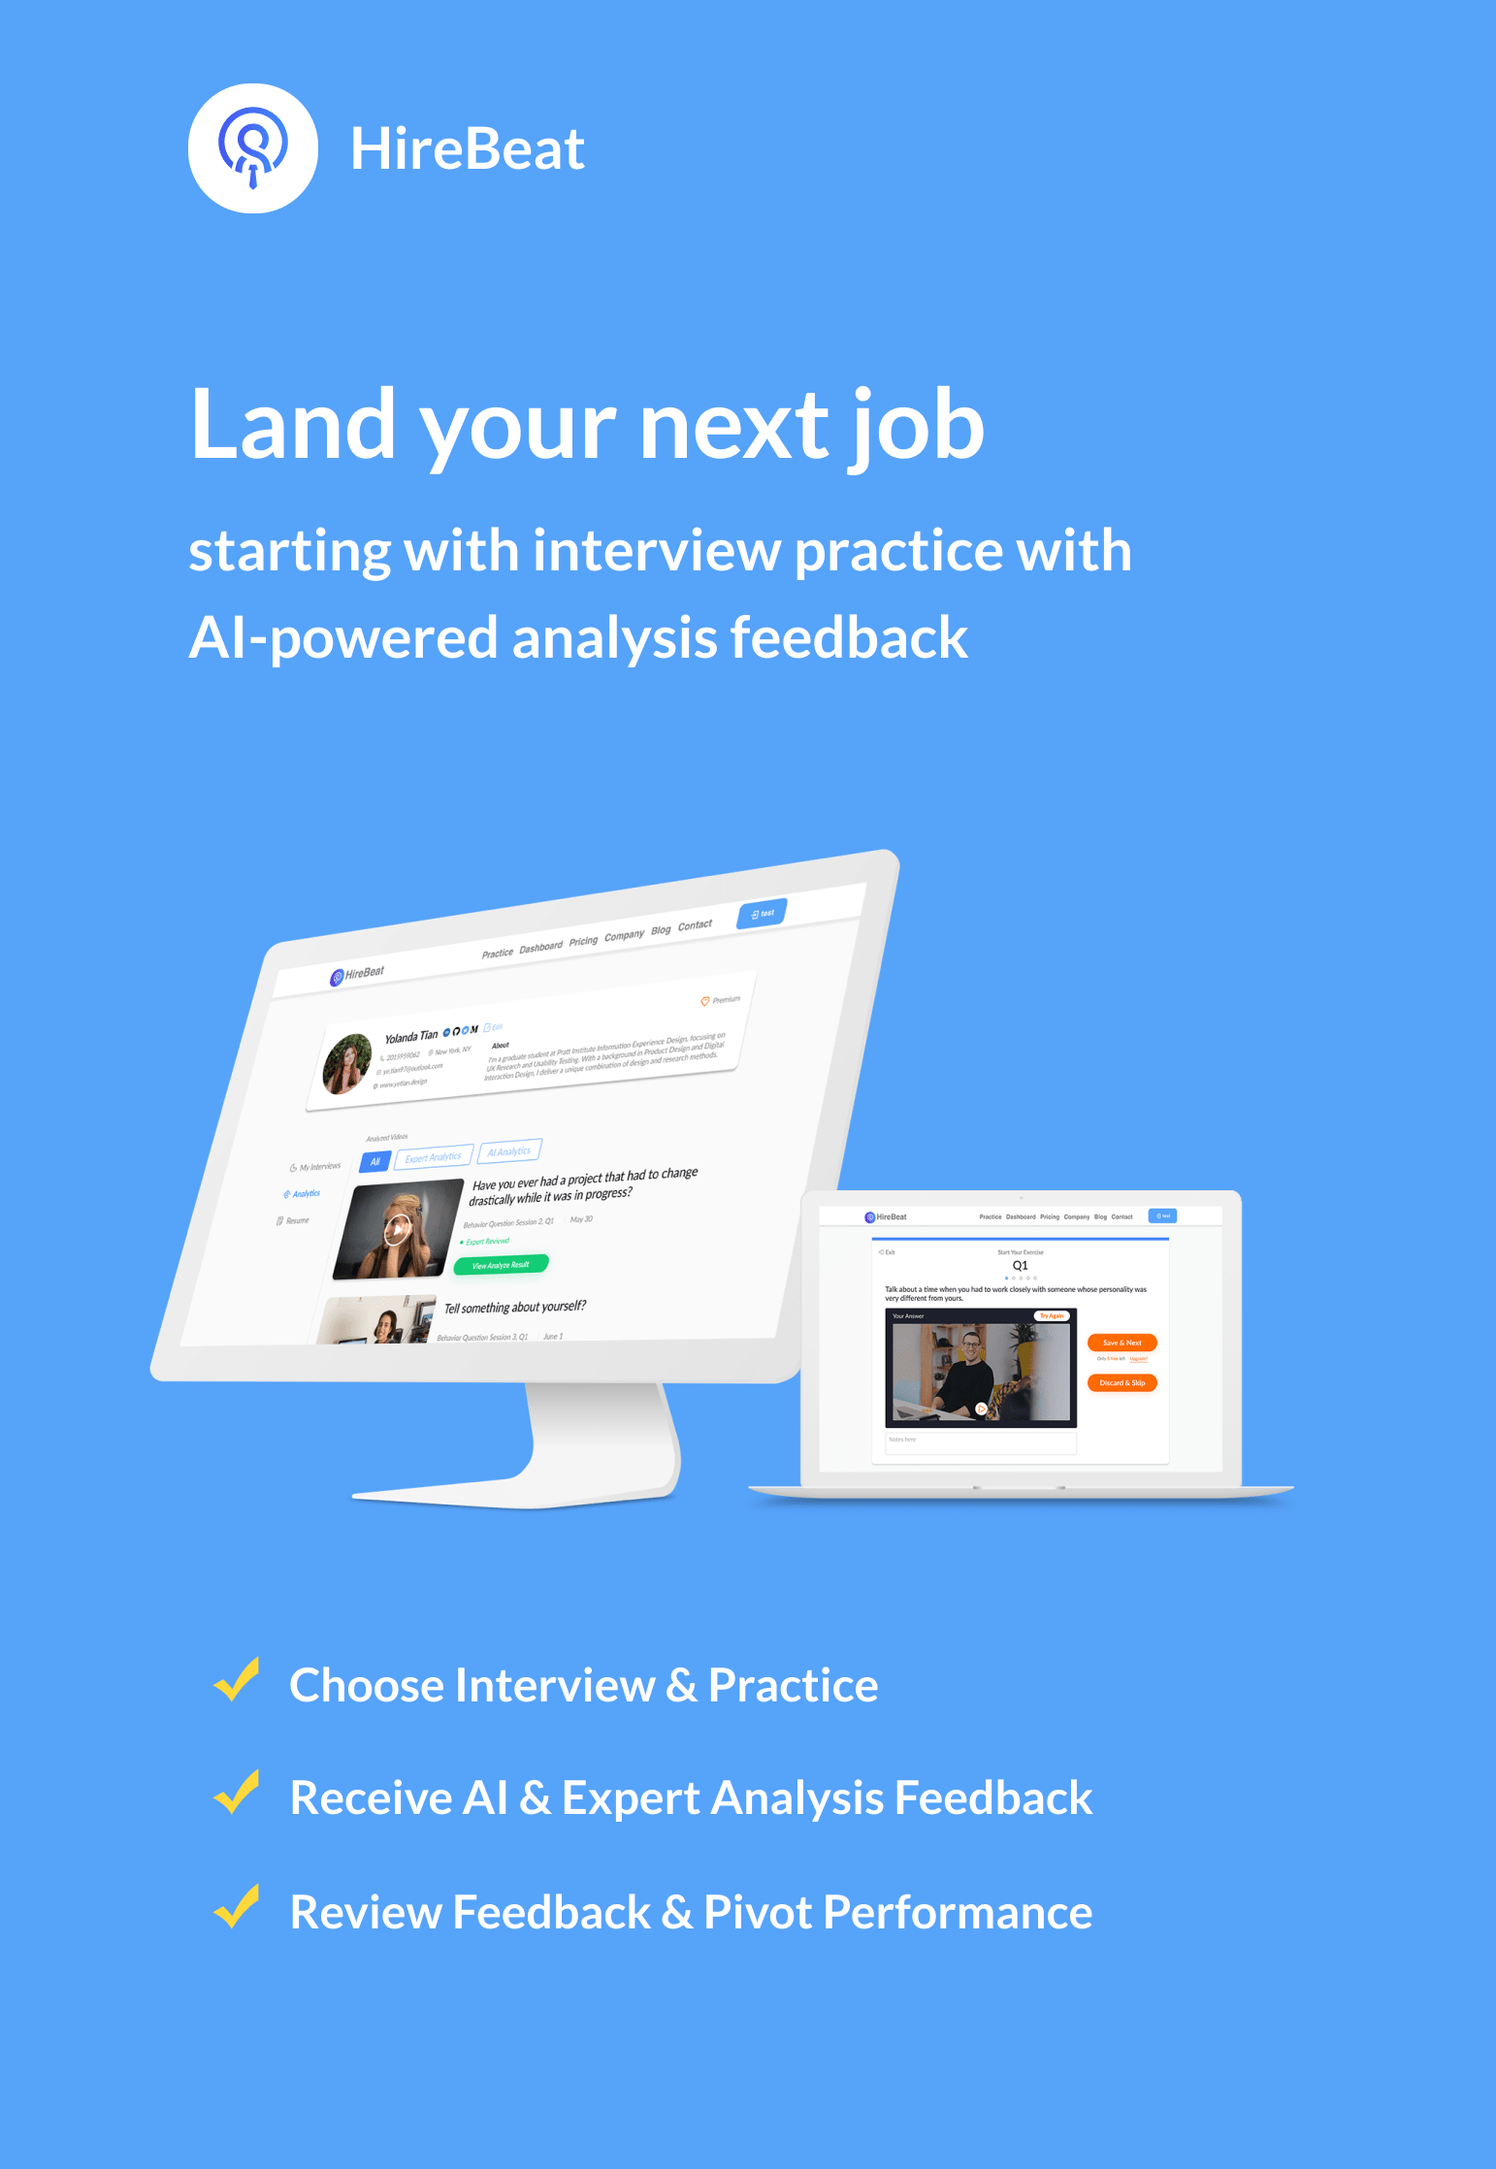
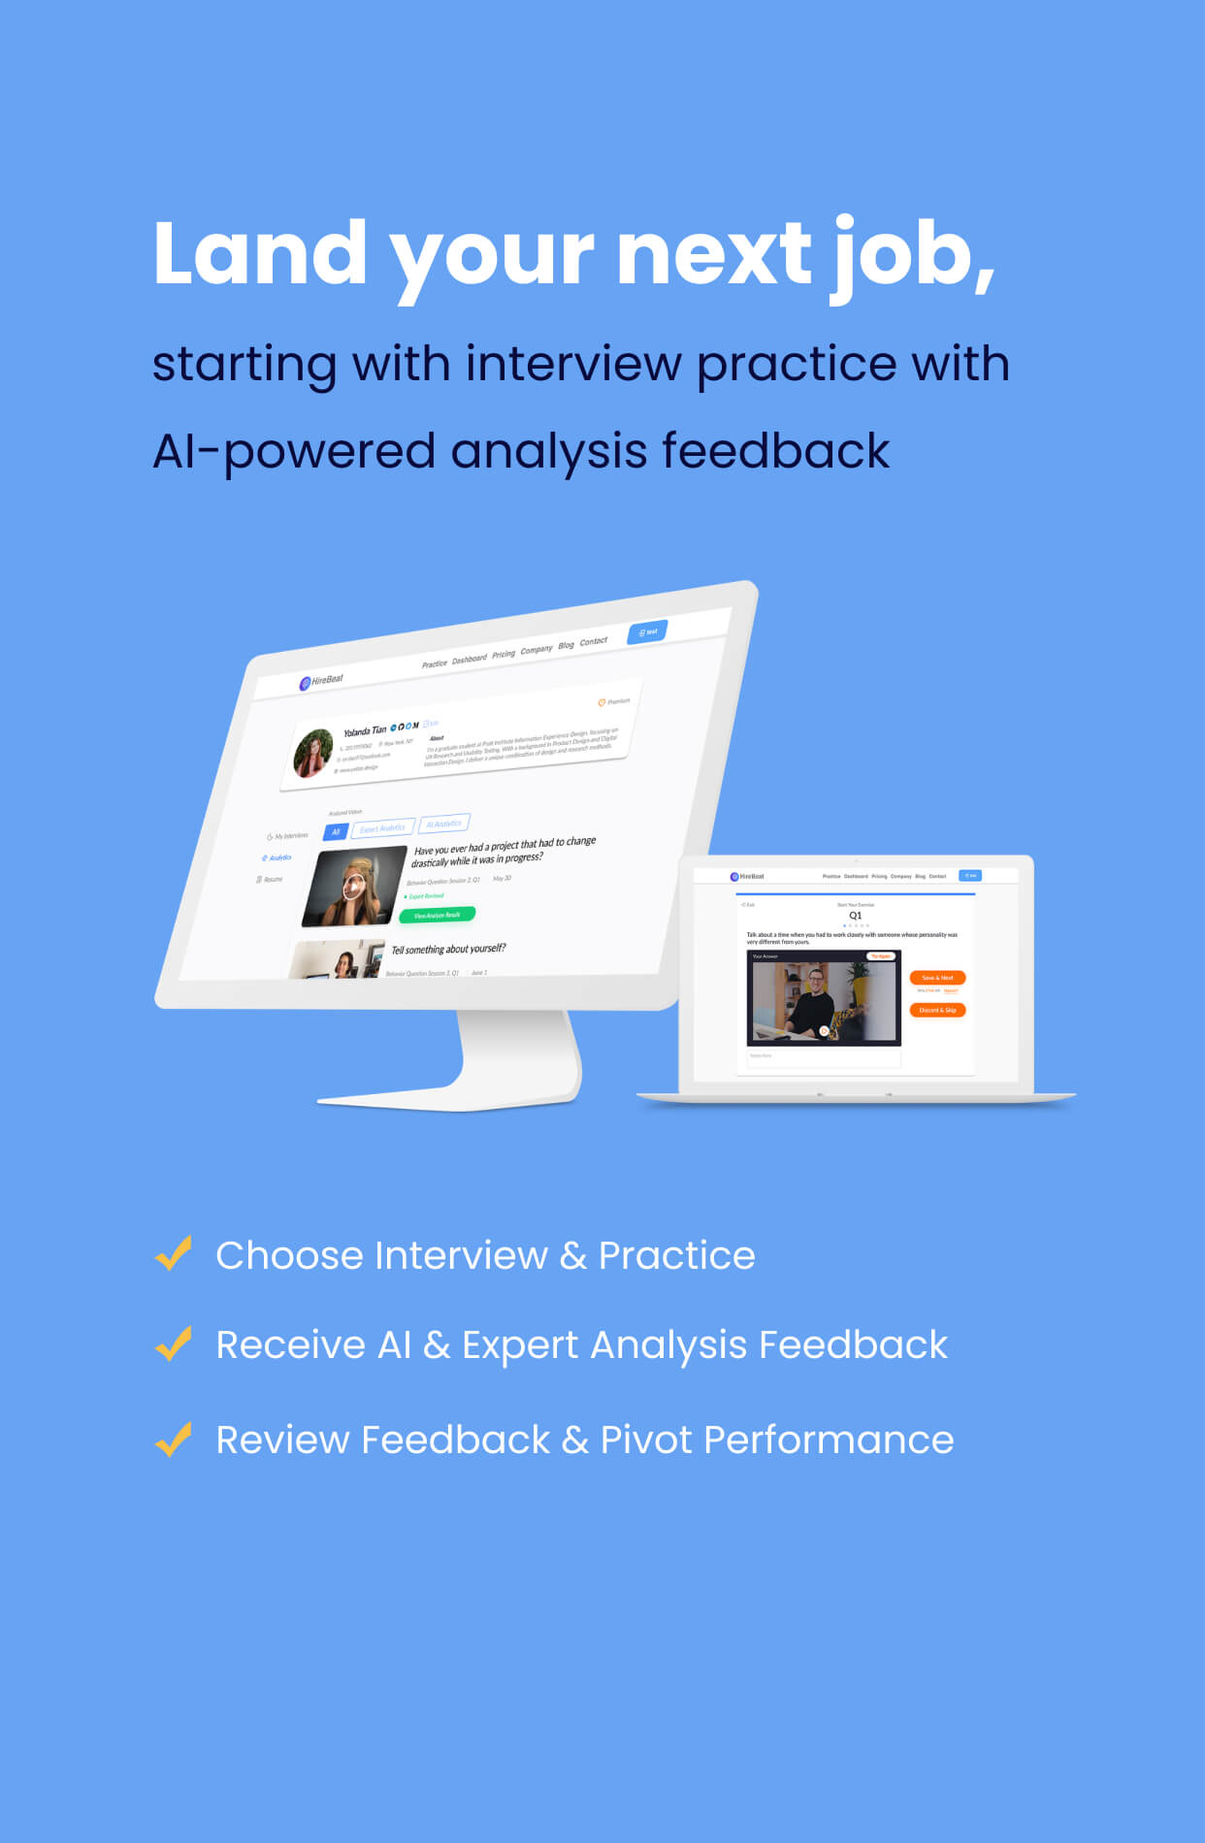
Production 26

Changed region(s): [[0.0918, 0.0311, 0.8873, 0.8384], [0.153, 0.8695, 0.7343, 0.9005], [0.1224, 0.7763, 0.153, 0.8074]]

diff --git a/hirebeat/frontend/src/components/accounts/Register.js b/hirebeat/frontend/src/components/accounts/Register.js
@@ -95,7 +95,7 @@ export class Register extends Component {
                         <div className="signup-content" style={{marginTop:"3rem"}}>
                                     <div className="signup-form">
                                       <div>
-                                        <h3 style={{color:"#56a3fa"}}><b>Start your career with HireBeat</b></h3>
+                                        <h3 style={{color:"#56a3fa", fontFamily: "Poppins"}}><b>Start your career with HireBeat</b></h3>
                                       </div>
 
                     <form onSubmit={this.onSubmit}>
@@ -108,10 +108,11 @@ export class Register extends Component {
                             onChange={this.onChange}
                             value={username}
                             style={{
+                              fontFamily: "Poppins",
                               background: "#FFFFFF",
-                              border: "1px solid #E5E5E5",
                               borderRadius: "5px",
                               paddingLeft: "1rem",
+                              boxShadow:"0px 0px 50px rgba(70, 137, 250, 0.1)"
                             }}
                             required
                         />
@@ -126,10 +127,11 @@ export class Register extends Component {
                             required
                             onChange={this.onChange}
                             style={{
+                              fontFamily: "Poppins",
                               background: "#FFFFFF",
-                              border: "1px solid #E5E5E5",
                               borderRadius: "5px",
                               paddingLeft: "1rem",
+                              boxShadow:"0px 0px 50px rgba(70, 137, 250, 0.1)"
                             }}
                             value={email}/>
                       </div>
@@ -144,10 +146,11 @@ export class Register extends Component {
                             placeholder="Create Password"
                             minLength="8"
                             style={{
+                              fontFamily: "Poppins",
                               background: "#FFFFFF",
-                              border: "1px solid #E5E5E5",
                               borderRadius: "5px",
                               paddingLeft: "1rem",
+                              boxShadow:"0px 0px 50px rgba(70, 137, 250, 0.1)"
                             }}
                             required/>
                       </div>
@@ -162,10 +165,11 @@ export class Register extends Component {
                             placeholder="Confirm Password"
                             minLength="8"
                             style={{
+                              fontFamily: "Poppins",
                               background: "#FFFFFF",
-                              border: "1px solid #E5E5E5",
                               borderRadius: "5px",
                               paddingLeft: "1rem",
+                              boxShadow:"0px 0px 50px rgba(70, 137, 250, 0.1)"
                             }}
                             required/>
                       </div>
@@ -190,18 +194,10 @@ export class Register extends Component {
                       <div className="form-group">
                         <button
                             type="submit"
-                            className="font-weight-bold navbar-font"
-                            style={{
-                              WebkitBorderRadius: "50px",
-                              width: "100%",
-                              height: "3rem",
-                              color: "white",
-                              background: "#FF6B00",
-                              border: "none",
-                              boxShadow: "0 0 8px #FF6B00",
-                            }}
+                            className="default-btn"
                         >
-                          Try It Free Now
+                          <i className="bx bxs-hot"></i>
+                          Try For Free
                         </button>
                       </div>
 
@@ -224,6 +220,8 @@ export class Register extends Component {
                       <hr className="style-four"
                           data-content="Or use"
                           style={{
+                            fontFamily: "Poppins",
+                            marginBottom:"2rem",
                             marginTop:"4rem",
                           }}
                       />
@@ -235,7 +233,7 @@ export class Register extends Component {
                     <div>
                       <div>
                         <img src={badge} style={{width:"5.5rem", float:"left", marginRight:"1rem"}}/>
-                        <div style={{paddingTop:"0.5rem", textAlign:"left"}}>
+                        <div style={{paddingTop:"0.5rem", textAlign:"left", fontFamily: "Poppins"}}>
                         <a>Your purchase is backed by our 30 Day Money Back Guarantee. We stand behind our training 100%. If you aren’t thrilled with the improvement in your interviewing, just email us and we’ll immediately refund the purchase.</a>
                         </div></div>
                     </div>
@@ -282,10 +280,12 @@ export class Register extends Component {
                             onChange={this.onChange}
                             value={username}
                             style={{
-                              background: "#FFFFFF",
+                              fontFamily: "Poppins",
                               border: "1px solid #E5E5E5",
+                              background: "#FFFFFF",
                               borderRadius: "5px",
                               paddingLeft: "1rem",
+                              boxShadow:"0px 0px 50px rgba(70, 137, 250, 0.1)"
                             }}
                             required
                         />
@@ -300,10 +300,12 @@ export class Register extends Component {
                             required
                             onChange={this.onChange}
                             style={{
+                              fontFamily: "Poppins",
                               background: "#FFFFFF",
                               border: "1px solid #E5E5E5",
                               borderRadius: "5px",
                               paddingLeft: "1rem",
+                              boxShadow:"0px 0px 50px rgba(70, 137, 250, 0.1)"
                             }}
                             value={email}/>
                       </div>
@@ -318,10 +320,12 @@ export class Register extends Component {
                             placeholder="Create Password"
                             minLength="8"
                             style={{
-                              background: "#FFFFFF",
+                              fontFamily: "Poppins",
                               border: "1px solid #E5E5E5",
+                              background: "#FFFFFF",
                               borderRadius: "5px",
                               paddingLeft: "1rem",
+                              boxShadow:"0px 0px 50px rgba(70, 137, 250, 0.1)"
                             }}
                             required/>
                       </div>
@@ -336,17 +340,19 @@ export class Register extends Component {
                             placeholder="Confirm Password"
                             minLength="8"
                             style={{
-                              background: "#FFFFFF",
+                              fontFamily: "Poppins",
                               border: "1px solid #E5E5E5",
+                              background: "#FFFFFF",
                               borderRadius: "5px",
                               paddingLeft: "1rem",
+                              boxShadow:"0px 0px 50px rgba(70, 137, 250, 0.1)"
                             }}
                             required/>
                       </div>
 
                       <p className="d-flex text-muted justify-content-end"
                          style={{
-                           fontWeight: "70"
+                           fontWeight: "70",
                          }}>
                         Have an account?
                         <a href="/login"
@@ -364,18 +370,11 @@ export class Register extends Component {
                       <div className="form-group">
                         <button
                             type="submit"
-                            className="font-weight-bold navbar-font"
-                            style={{
-                              WebkitBorderRadius: "50px",
-                              width: "100%",
-                              height: "3rem",
-                              color: "white",
-                              background: "#FF6B00",
-                              border: "none",
-                              boxShadow: "0 0 8px #FF6B00",
-                            }}
+                            className="default-btn"
+                            style={{width:"100%"}}
                         >
-                          Try It Free Now
+                          <i className="bx bxs-hot"></i>
+                          Try For Free
                         </button>
                       </div>
 

diff --git a/hirebeat/frontend/src/components/accounts/Login.js b/hirebeat/frontend/src/components/accounts/Login.js
@@ -83,7 +83,7 @@ export class Login extends Component {
               <div className="container"
                    style={{paddingTop: "5rem"}}>
 
-                <h1 className="display-4 text-white text-center">
+                <h1 className="display-4 text-white text-center" style={{fontSize:"3rem", fontWeight:"600"}}>
                   Welcome back!
                 </h1>
 
@@ -128,10 +128,12 @@ export class Login extends Component {
                             onChange={this.onChange}
                             value={username}
                             style={{
+                              fontFamily: "Poppins",
                               background: "#FFFFFF",
-                              border: "1px solid #E5E5E5",
+                              border: "0.5px solid #E5E5E5",
                               borderRadius: "0.5rem",
                               paddingLeft: "1rem",
+                              boxShadow:"0px 0px 50px rgba(70, 137, 250, 0.1)"
                             }}
                             required/>
                       </div>
@@ -145,10 +147,12 @@ export class Login extends Component {
                             onChange={this.onChange}
                             value={password}
                             style={{
+                              fontFamily: "Poppins",
                               background: "#FFFFFF",
-                              border: "1px solid #E5E5E5",
+                              border: "0.5px solid #E5E5E5",
                               borderRadius: "0.5rem",
                               paddingLeft: "1rem",
+                              boxShadow:"0px 0px 50px rgba(70, 137, 250, 0.1)"
                             }}
                             required/>
                       </div>
@@ -157,7 +161,7 @@ export class Login extends Component {
                         <a
                             href="/register"
                             className="navbar-font"
-                            style={{textDecoration: "underline", color: "#FF6B00", fontWeight: "300"}}
+                            style={{textDecoration: "underline", color: "#FF6B00", fontWeight: "300", fontFamily: "Poppins", fontSize:"1rem"}}
                         >
                           Create account
                         </a>
@@ -167,6 +171,8 @@ export class Login extends Component {
                             target="_blank"
                             className="navbar-font"
                             style={{
+                              fontSize:"1rem",
+                              fontFamily: "Poppins",
                               color: "#7D7D7D",
                               fontWeight: "300"
                             }}
@@ -182,17 +188,10 @@ export class Login extends Component {
                       >
                         <button
                             type="submit"
-                            className="navbar-font"
-                            style={{
-                              WebkitBorderRadius: "3rem",
-                              width: "100%",
-                              height: "3rem",
-                              color: "white",
-                              background: "#FF6B00",
-                              border: "none",
-                              boxShadow: "0 0 0.5rem #FF6B00",
-                            }}
+                            className="default-btn"
+                            style={{width:"100%"}}
                         >
+                          <i className="bx bxs-hot"></i>
                           Log in
                         </button>
 
@@ -203,7 +202,8 @@ export class Login extends Component {
                         data-content="Or use"
                         style={{
                           marginTop:"4rem",
-                          marginBottom:"2rem"
+                          marginBottom:"2rem",
+                          fontFamily: "Poppins",
                         }}
                     />
 

diff --git a/hirebeat/frontend/src/components/public/css/style.css b/hirebeat/frontend/src/components/public/css/style.css
@@ -193,6 +193,26 @@ p:last-child {
   padding-bottom: 13px;
 }
 
+.default-btn1 {
+  border: none;
+  position: relative;
+  display: inline-block;
+  text-align: center;
+  overflow: hidden;
+  z-index: 1;
+  color: #ffffff;
+  background-color: #080a3c;
+  -webkit-transition: 0.5s;
+  transition: 0.5s;
+  border-radius: 5px;
+  font-weight: 500;
+  font-size: 15px;
+  padding-left: 50px;
+  padding-right: 25px;
+  padding-top: 13px;
+  padding-bottom: 13px;
+}
+
 .default-btn i {
   position: absolute;
   left: 25px;
@@ -221,6 +241,7 @@ p:last-child {
 }
 
 .default-btn:hover, .default-btn:focus {
+  background-color: #ff612f;
   color: #ffffff;
   -webkit-box-shadow: 0px 5px 28.5px 1.5px rgba(19, 196, 161, 0.3) !important;
           box-shadow: 0px 5px 28.5px 1.5px rgba(19, 196, 161, 0.3) !important;

diff --git a/hirebeat/frontend/src/components/HomeSaas/MainBanner.js b/hirebeat/frontend/src/components/HomeSaas/MainBanner.js
@@ -141,7 +141,7 @@ class MainBanner extends Component {
                                                     <Link to="/register">
                                                         <a className="default-btn" style={{color:"white"}}>
                                                             <i className="bx bxs-hot"></i>
-                                                            Get Started 
+                                                            Try For Free 
                                                             <span></span>
                                                         </a>
                                                     </Link>

diff --git a/hirebeat/frontend/src/components/app.css b/hirebeat/frontend/src/components/app.css
@@ -1155,7 +1155,7 @@ h5 {
   font-weight: normal;
   font-size: 12px;
   line-height: 14px;
-  color: #4356F0;
+  color: #56a3fa;
 }
 .blog-bottom-box1-date{
   position: absolute;
@@ -1187,11 +1187,11 @@ h5 {
 }
 
 .home-1-mobile {
-  background: linear-gradient(258.29deg, #4BADE4 0%, #4356F0 97.24%);
+  background: linear-gradient(258.29deg, #56a3fa 0%, #56a3fa 97.24%);
 }
 
 .contact-bg {
-  background: linear-gradient(90deg, #56a3fa 0%, #59a7ff 100%);
+  background: linear-gradient(90deg, #56a3fa 0%, #56a3fa 100%);
   border-radius: 10px;
 }
 

diff --git a/hirebeat/frontend/src/components/Common/WhyChooseUs.js b/hirebeat/frontend/src/components/Common/WhyChooseUs.js
@@ -87,7 +87,7 @@ class WhyChooseUs extends Component {
                                 <Link to="/register">
                                     <a className="default-btn" style={{color:"white"}}>
                                         <i className="bx bxs-hot"></i>
-                                        Get Started
+                                        Try For Free
                                         <span></span>
                                     </a>
                                 </Link>

diff --git a/hirebeat/frontend/src/components/HomeSaas/FreeTrialArea.js b/hirebeat/frontend/src/components/HomeSaas/FreeTrialArea.js
@@ -17,7 +17,7 @@ class FreeTrialArea extends Component {
                         <Link to="/register">
                             <a className="default-btn" style={{color:"white", backgroundColor:"#56a3fa"}}>
                                 <i className="bx bxs-hot"></i> 
-                                Get Started
+                                Try For Free
                                 <span></span>
                             </a>
                         </Link>

diff --git a/hirebeat/frontend/templates/frontend/index.html b/hirebeat/frontend/templates/frontend/index.html
@@ -45,7 +45,7 @@
   <body class="container-fluid bg-white p-0 m-0">
     <div id="app"></div>
     {% load static %}
-    <script src="{% static "frontend/main25.js" %}"></script>
+    <script src="{% static "frontend/main26.js" %}"></script>
     <script src="https://code.jquery.com/jquery-3.4.1.slim.min.js"
         integrity="sha384-J6qa4849blE2+poT4WnyKhv5vZF5SrPo0iEjwBvKU7imGFAV0wwj1yYfoRSJoZ+n"
         crossorigin="anonymous"></script>
